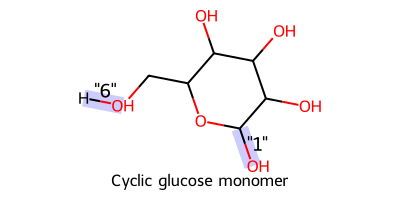
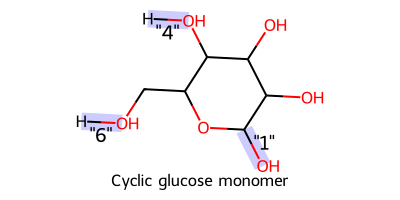
Add glucose 146 image

Changed region(s): [[0.18, 0.03, 0.81, 0.87]]

diff --git a/README.md b/README.md
@@ -288,8 +288,9 @@ Visualize.polymer(polymer, infer_bond_order=False).draw2D('tests/output/PET_poly
 Image(filename='tests/output/PET_polymer.png')
 ```
 
-    Ignoring rdKit error for bond:    47    44     2     0.1201 8.1800e+06
-    Ignoring rdKit error for bond:    25    68     2     0.1201 1.9581e+07
+    Ignoring rdKit error for bond:    67    64     2     0.1201 8.1800e+06
+    Ignoring rdKit error for bond:    91    88     2     0.1201 8.1800e+06
+    Ignoring rdKit error for bond:    69   112     2     0.1201 1.9581e+07
     
 
 
@@ -387,7 +388,7 @@ Image(filename='tests/output/glucose_16.png')
 
 
 ```python
-Image(filename='tests/output/glucose_16.png')
+Image(filename='tests/output/glucose_146.png')
 ```
 
 
